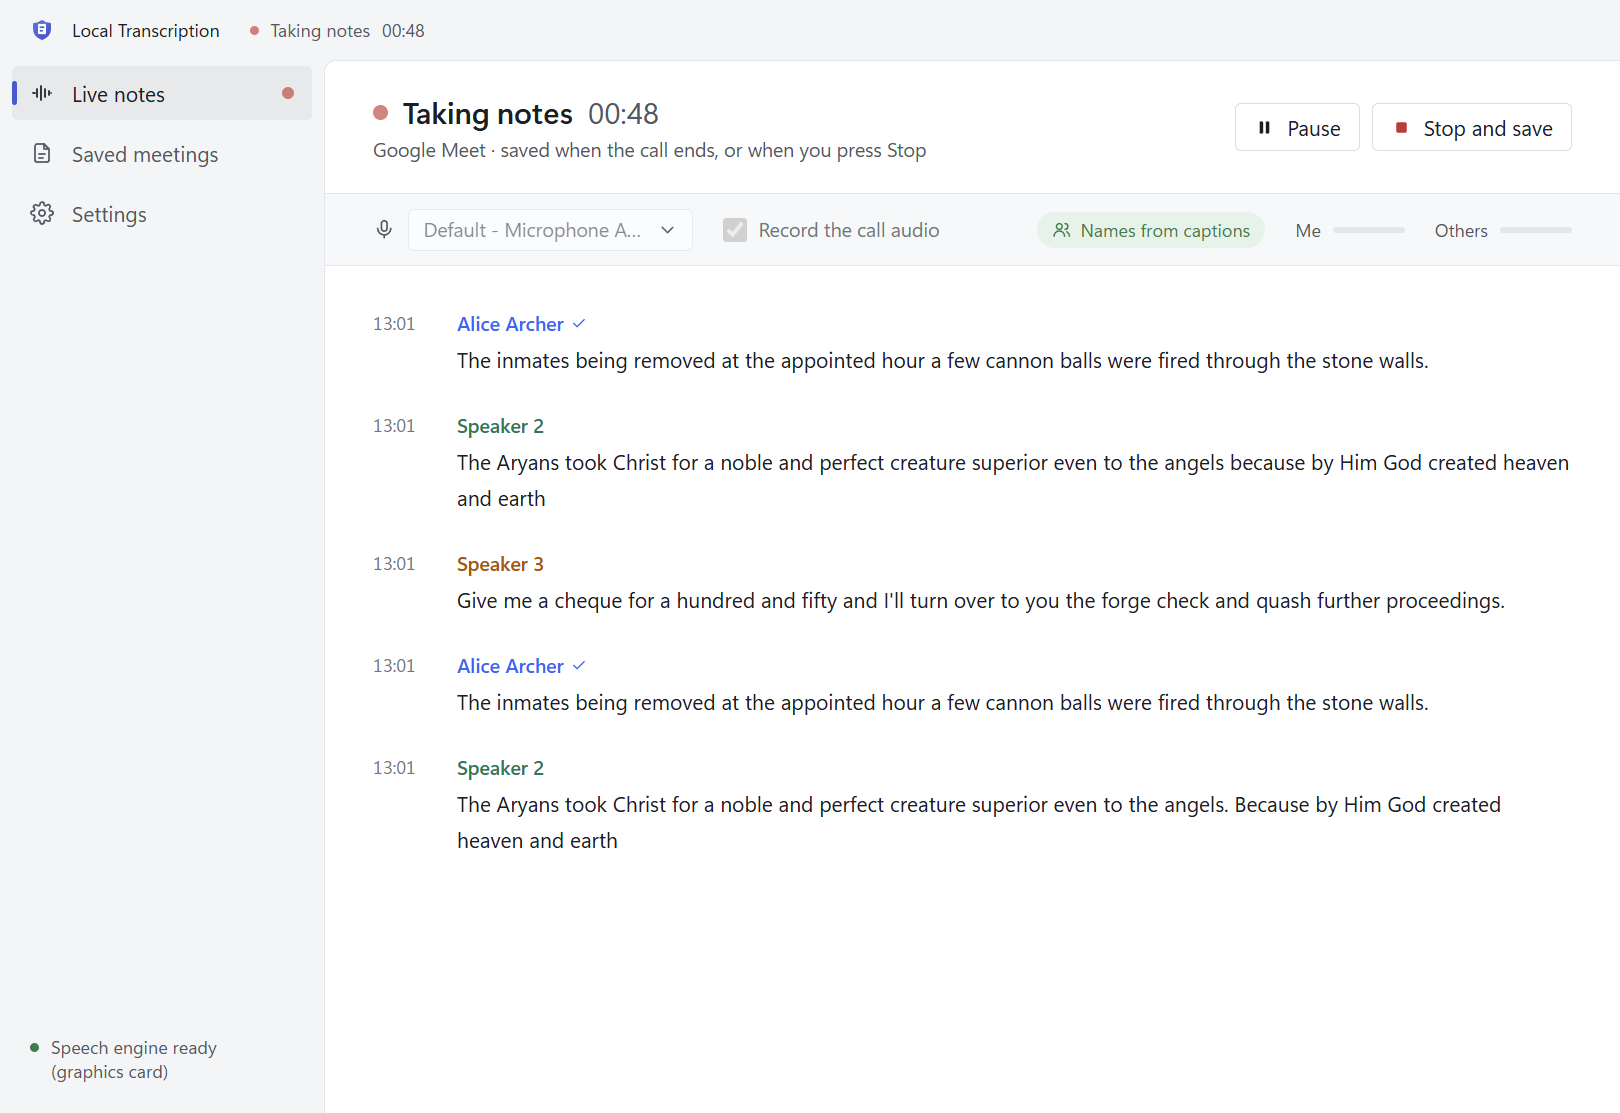
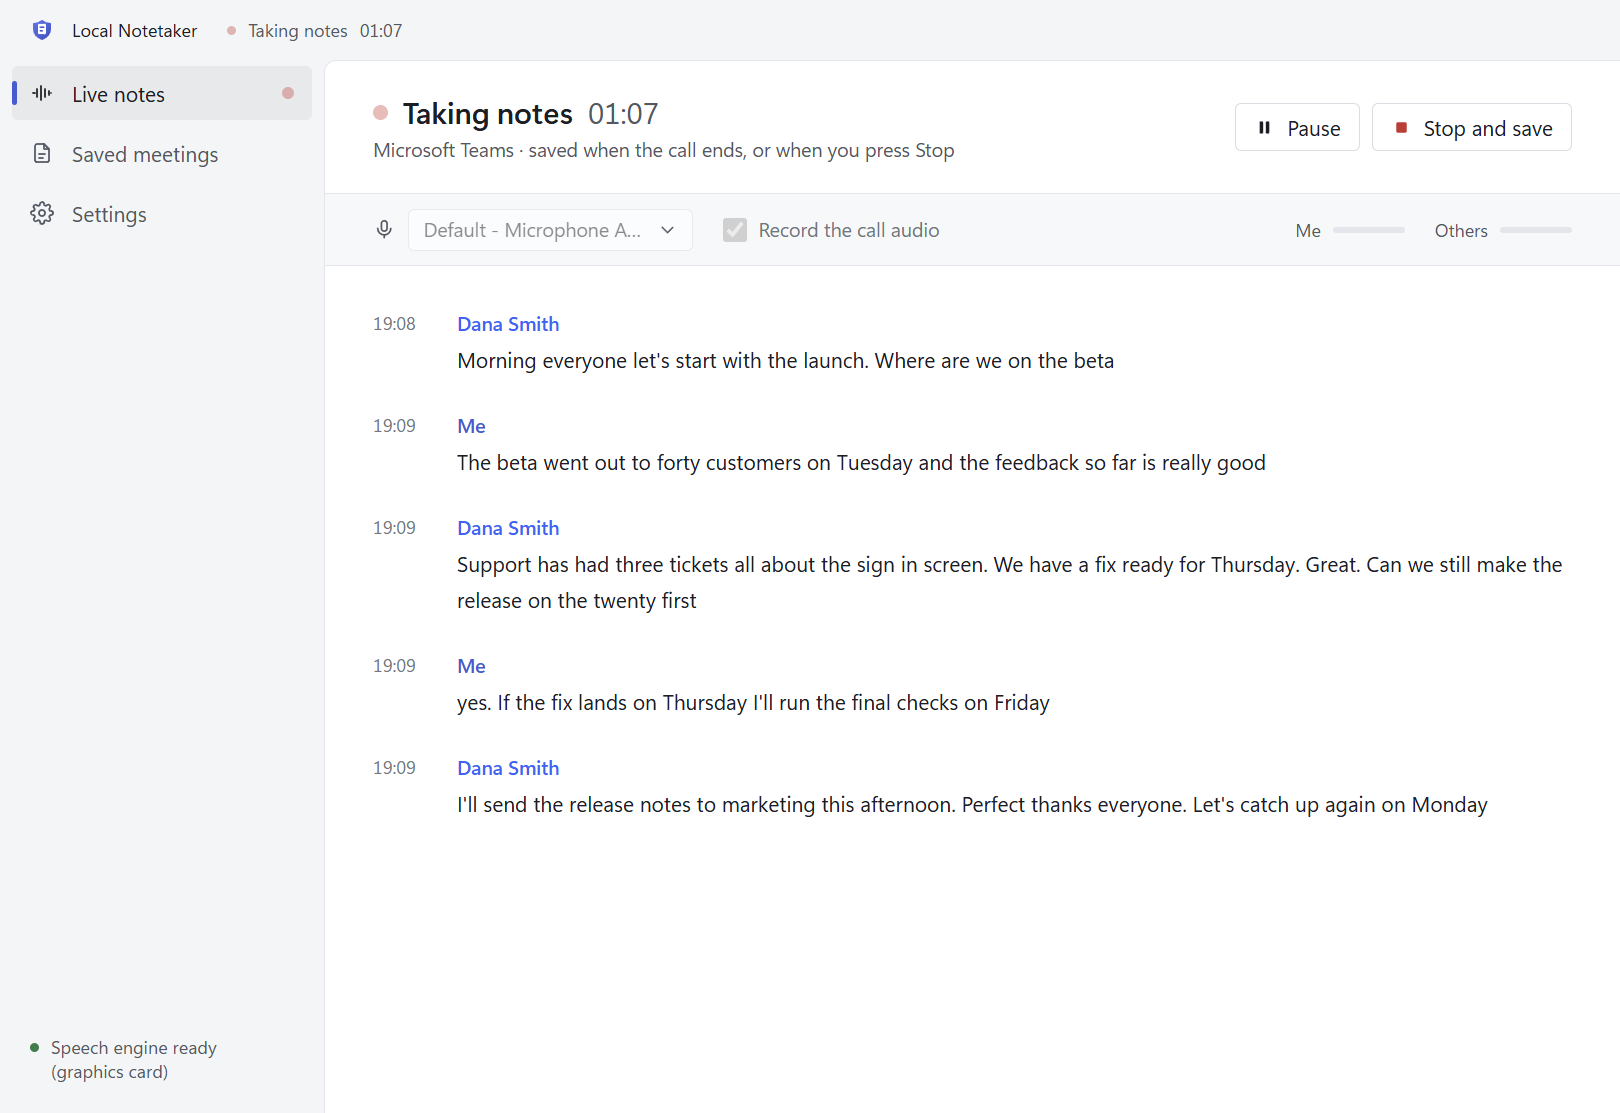
Local Notetaker 1.5.0: the new name, and a privacy policy

diff --git a/README.md b/README.md
@@ -1,24 +1,26 @@
 <img src="icon.png" alt="" width="88" align="right">
 
-# Local Transcription
+# Local Notetaker
 
-A meeting notetaker for Windows that runs entirely on your PC. It was called Meeting Notetaker before version 1.3.0. When a Microsoft Teams, Google Meet or Zoom meeting starts, it offers to take notes. It transcribes the meeting with NVIDIA Nemotron, tells the voices apart, puts people's names on them from the meeting's live captions, and saves a clear Markdown transcript when the meeting ends.
+A meeting notetaker for Windows that runs entirely on your PC. It was called Local Transcription in versions 1.3 and 1.4, and Meeting Notetaker before that. When a Microsoft Teams, Google Meet or Zoom meeting starts, it offers to take notes. It transcribes the meeting with NVIDIA Nemotron, tells the voices apart, puts people's names on them from the meeting's live captions, and saves a clear Markdown transcript when the meeting ends.
 
-No audio or text leaves your PC. There's no account and no subscription.
+No audio or text leaves your PC. There's no account and no subscription. See the [privacy policy](PRIVACY.md).
 
-### [Download Local Transcription for Windows](https://github.com/finn-1o8/meeting-notetaker-downloads/releases/latest)
+### [Download Local Notetaker for Windows](https://github.com/finn-1o8/meeting-notetaker-downloads/releases/latest)
 
 Windows 10 or 11, 64-bit. The installer is about 1 GB because the speech models are inside it.
 
-![Local Transcription taking notes in a Google Meet meeting, with people named from the meeting's captions](screenshot.png)
+![Local Notetaker taking notes in a Microsoft Teams meeting](screenshot.png)
 
 ## Install
 
-1. Open the [latest release](https://github.com/finn-1o8/meeting-notetaker-downloads/releases/latest) and, under **Assets**, download `Local-Transcription-Setup-<version>.exe`.
+1. Open the [latest release](https://github.com/finn-1o8/meeting-notetaker-downloads/releases/latest) and, under **Assets**, download `Local-Notetaker-Setup-<version>.exe`.
 2. Run it. Windows may say "Windows protected your PC", because the installer isn't code-signed yet. Click **More info**, then **Run anyway**.
 3. Pick where to install. Your user folder is the default, and no administrator rights are needed. The installer adds Start menu and desktop shortcuts, then opens the app.
 
-If you have Meeting Notetaker installed, the installer updates it in place, keeping your settings, notes and shortcuts.
+If Smart App Control is on, Windows blocks the installer and offers no way to run it. A Microsoft Store version, which Windows allows, is on its way.
+
+If you have Local Transcription or Meeting Notetaker installed, the installer updates it in place, keeping your settings, notes and shortcuts.
 
 To uninstall, go to Windows Settings > Apps > Installed apps. Your meeting notes and settings are kept.
 
@@ -78,7 +80,7 @@ The details at the top let note apps such as Obsidian, and Windows search, find 
 
 ## Licences
 
-Local Transcription © 2026 finn-1o8. It includes these components, which keep their own licences:
+Local Notetaker © 2026 finn-1o8. It includes these components, which keep their own licences:
 
 - **NVIDIA Nemotron Speech Streaming English 0.6B**, the speech recognition model. Licensed by NVIDIA Corporation under the NVIDIA Open Model License.
 - **NVIDIA Nemotron 3 Diarization**, the model that tells speakers apart, under the OpenMDW License Agreement 1.1.

diff --git a/PRIVACY.md b/PRIVACY.md
@@ -1,0 +1,30 @@
+# Privacy policy for Local Notetaker
+
+_Last updated: 23 October 2026_
+
+Local Notetaker is a meeting notetaker for Windows that works entirely on your PC.
+
+## What it uses
+
+- **Your microphone and the sound your PC plays**, while you're taking notes, to transcribe your meeting. You start and stop this, and the app shows when it's listening.
+- **Which apps are using your microphone, and the titles of open windows**, to notice when a Microsoft Teams, Google Meet or Zoom meeting starts and ends.
+- **The live captions a meeting app shows on screen**, read the way a screen reader reads them, to put people's names on the voices. This is only while you're taking notes, and only if you leave "Put names on voices" on in Settings.
+
+## What it keeps
+
+- **Meeting notes**: Markdown files in the folder you choose, on your PC.
+- **A copy of the meeting in progress**: while you're taking notes, kept in the app's own folder on your PC, so a crash or power cut doesn't lose the meeting. It's removed once the notes are saved.
+- **Settings and logs**: in the app's own folder on your PC. The logs record what the app did, such as a meeting starting or a voice being matched to a name from the captions. They don't contain what was said.
+
+## What it shares
+
+Nothing. Audio, transcripts, names and settings never leave your PC. The speech engine and its models run on your PC and come with the app. The app has no accounts, sends nothing to its maker or anyone else, and has no advertising or analytics.
+
+## Your control
+
+- You decide when to take notes and where they're saved, and you can delete them like any other file.
+- Uninstalling the app removes it. Your notes stay in their folder until you delete them.
+
+## Contact
+
+For questions, open an issue at https://github.com/finn-1o8/meeting-notetaker-downloads/issues.
